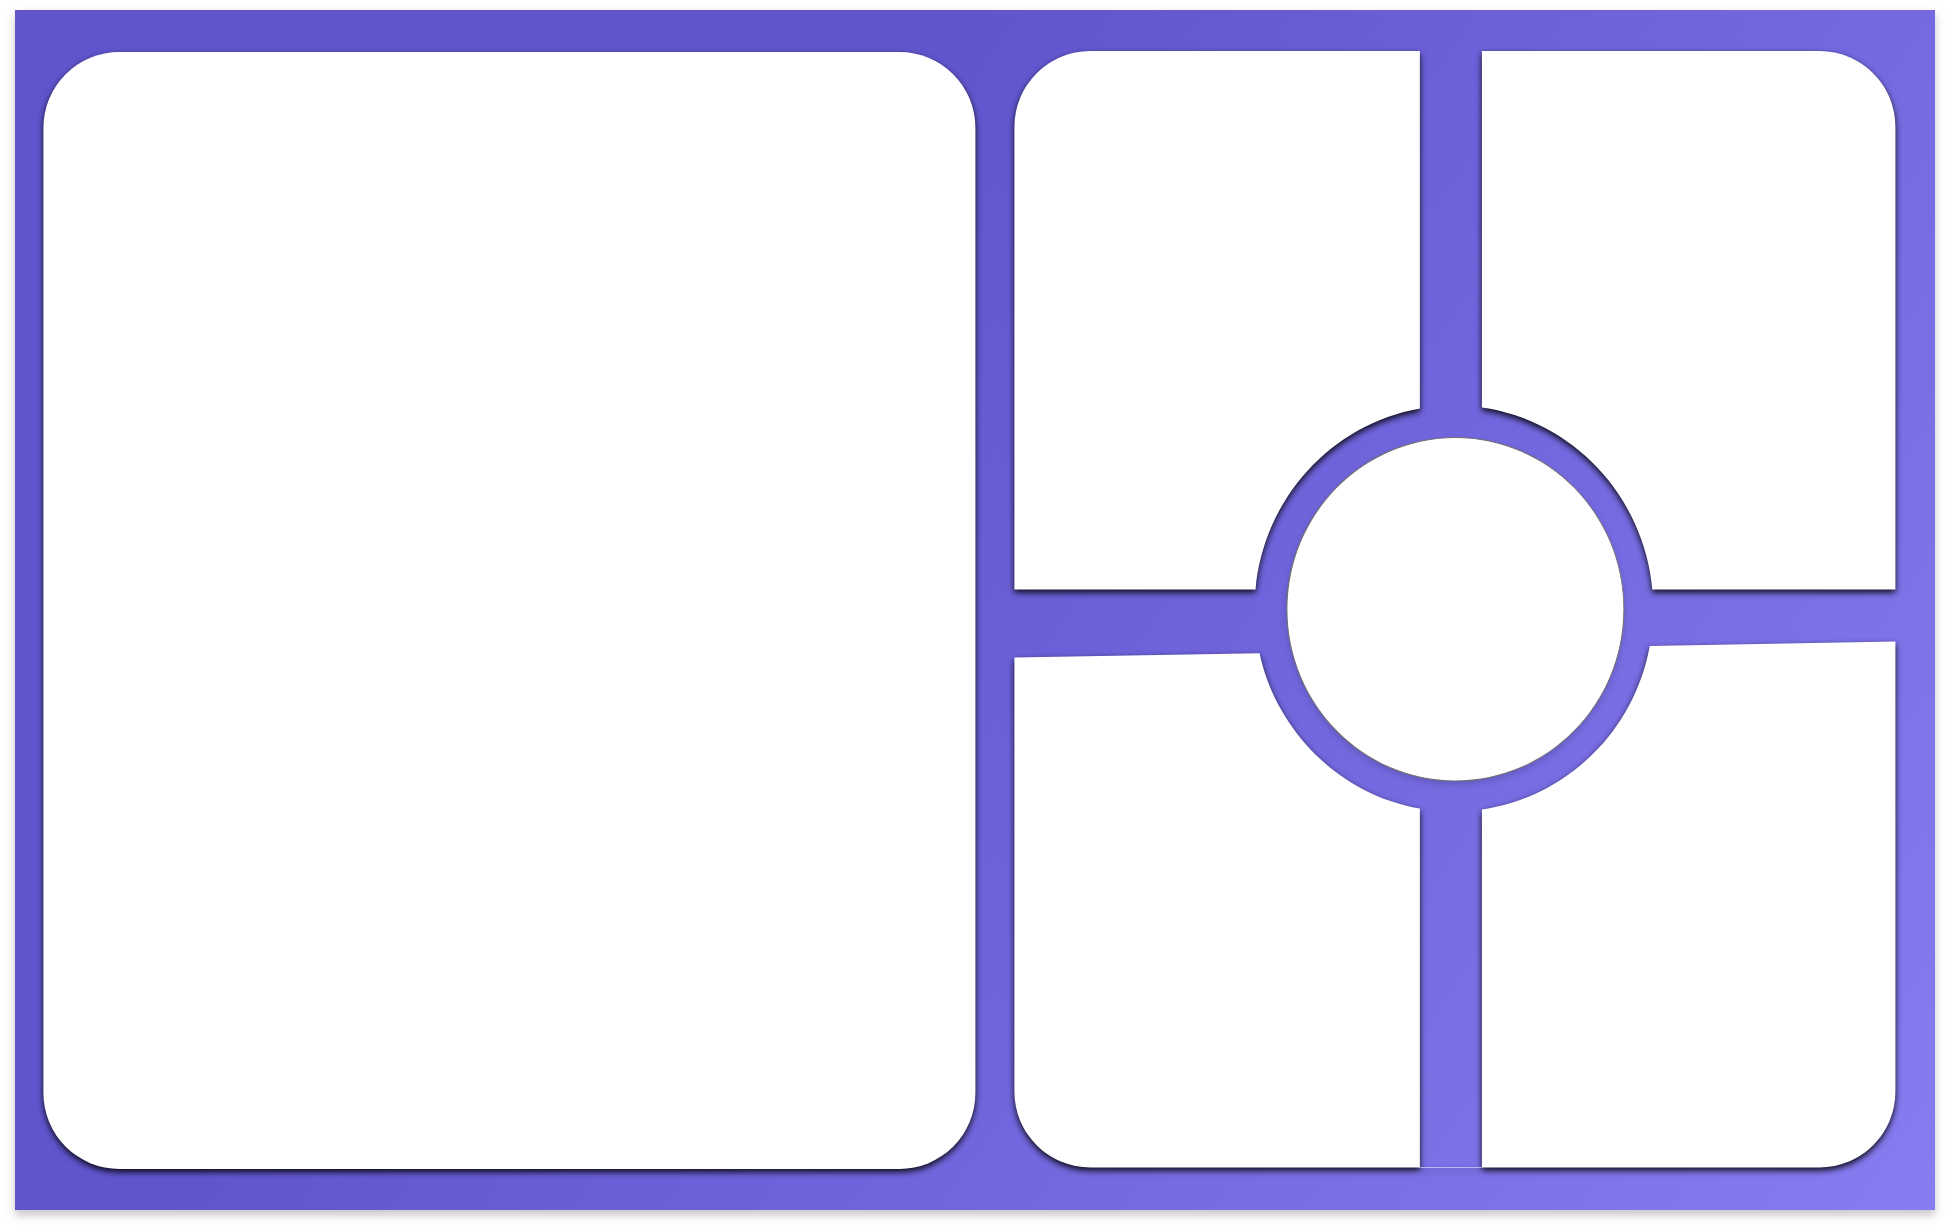
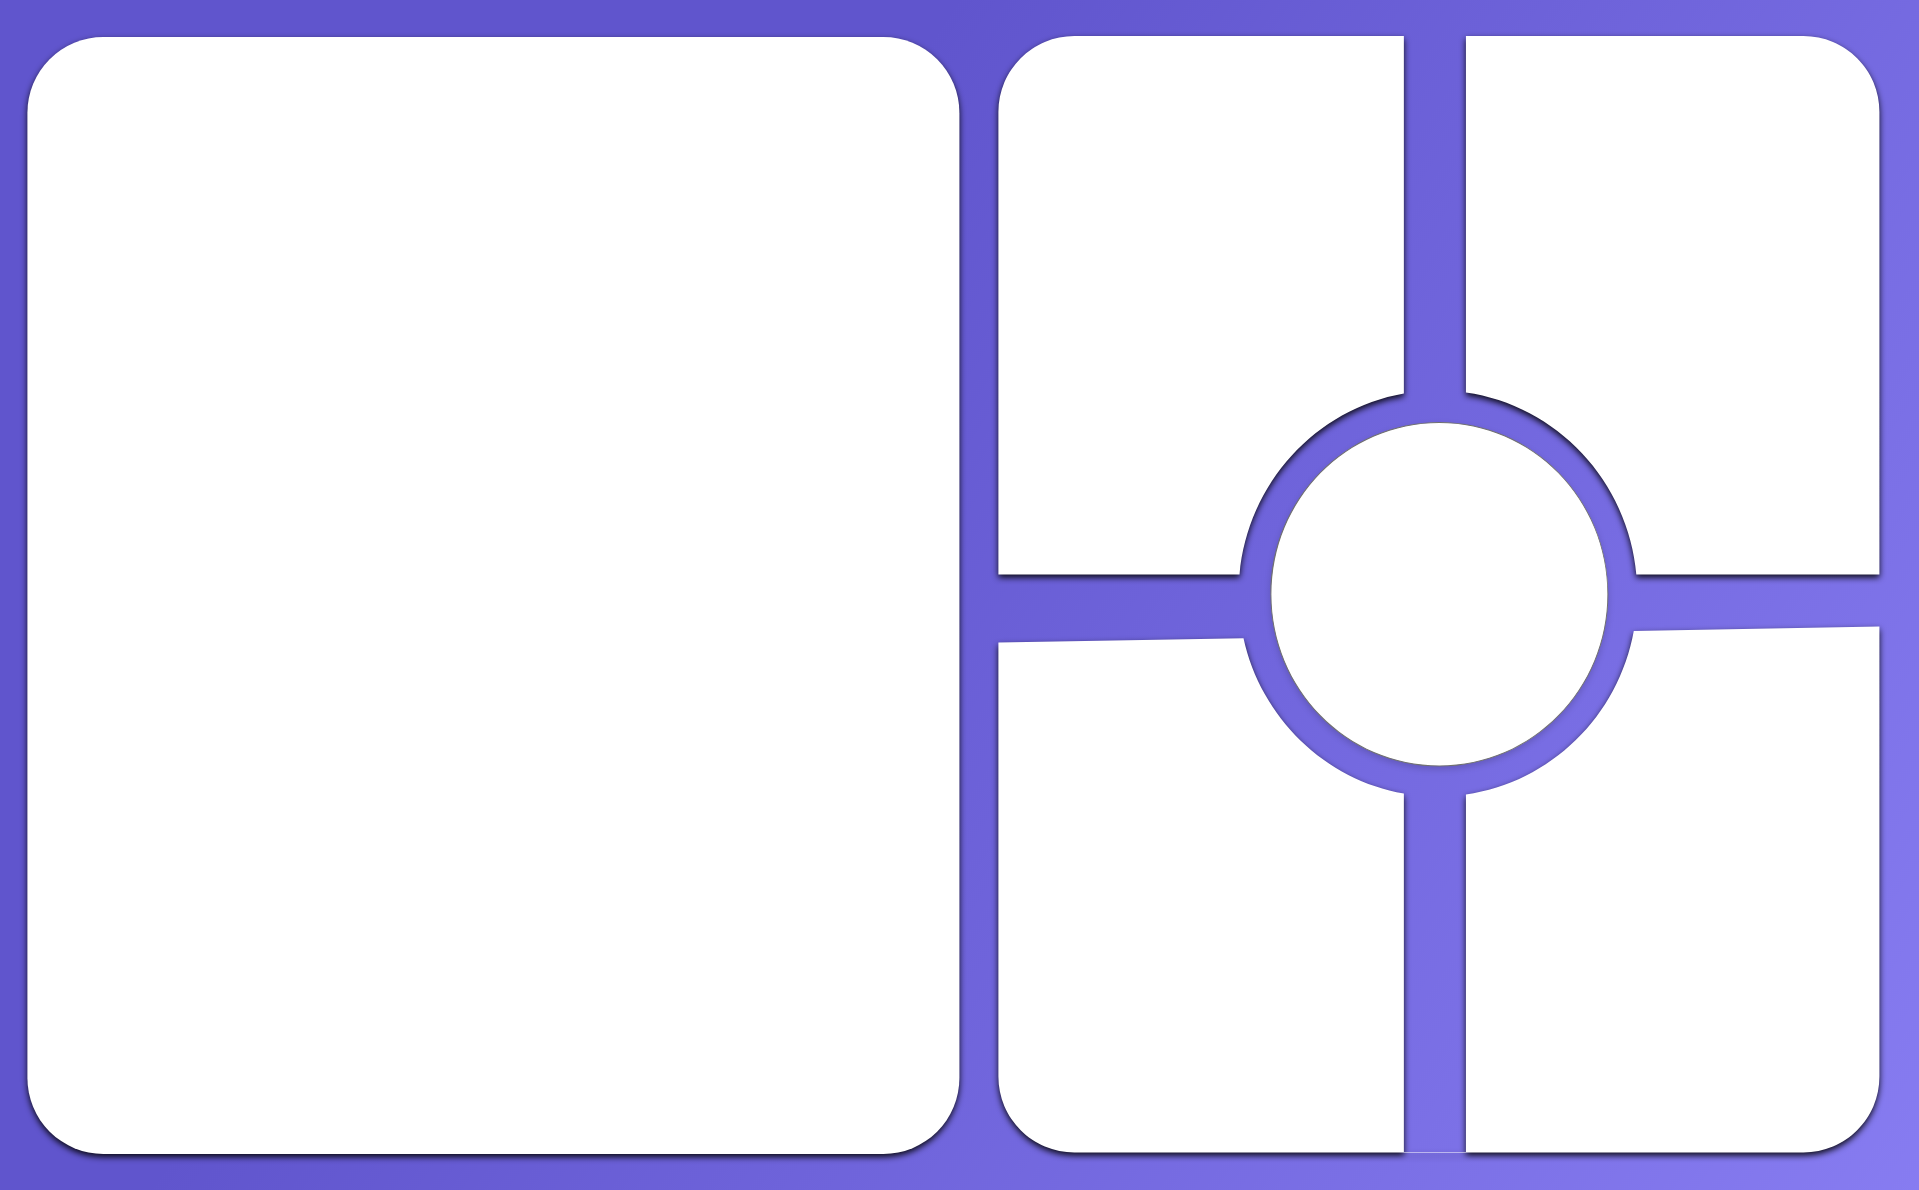
crop images

Changed region(s): [[0.0, 0.0, 1.0, 1.0], [0.5227, 0.342, 0.7071, 0.5597], [0.4919, 0.0622, 0.5227, 0.0933]]

diff --git a/lib/UI/HomeScreen.dart b/lib/UI/HomeScreen.dart
@@ -42,9 +42,13 @@ class _HomeScreenState extends State<HomeScreen> {
   @override
   Widget build(BuildContext context) {
     return Scaffold(
+      backgroundColor: Colors.red,
       body: Container(
-        color: c1,
-        child:   _getBody(),
+        padding: EdgeInsets.all(0),
+         decoration :BoxDecoration(
+           image : DecorationImage(image : Image.asset("assets/background1.png",).image,fit: BoxFit.fill),
+         ) ,
+         child:   _getBody(),
       ) ,
     );
   }
@@ -53,26 +57,7 @@ class _HomeScreenState extends State<HomeScreen> {
 
   Widget _getBody() {
     return Container(
-
-
-      decoration: new BoxDecoration(
-        color: Colors.white,
-        borderRadius: new BorderRadius.only(
-            topLeft:   Radius.circular(70.0)
-
-        )
-        ,
-        boxShadow: [
-          new BoxShadow(
-            color: Colors.grey,
-            blurRadius: 5,
-            spreadRadius:0.2,
-            offset: new Offset(-3, -2.0),
-          )
-        ],),
       child: Container(
-
-        margin: EdgeInsets.only(top: 40),
          height: MediaQuery.of(context).size.height,
           width: MediaQuery.of(context).size.width,
           child: Container(
